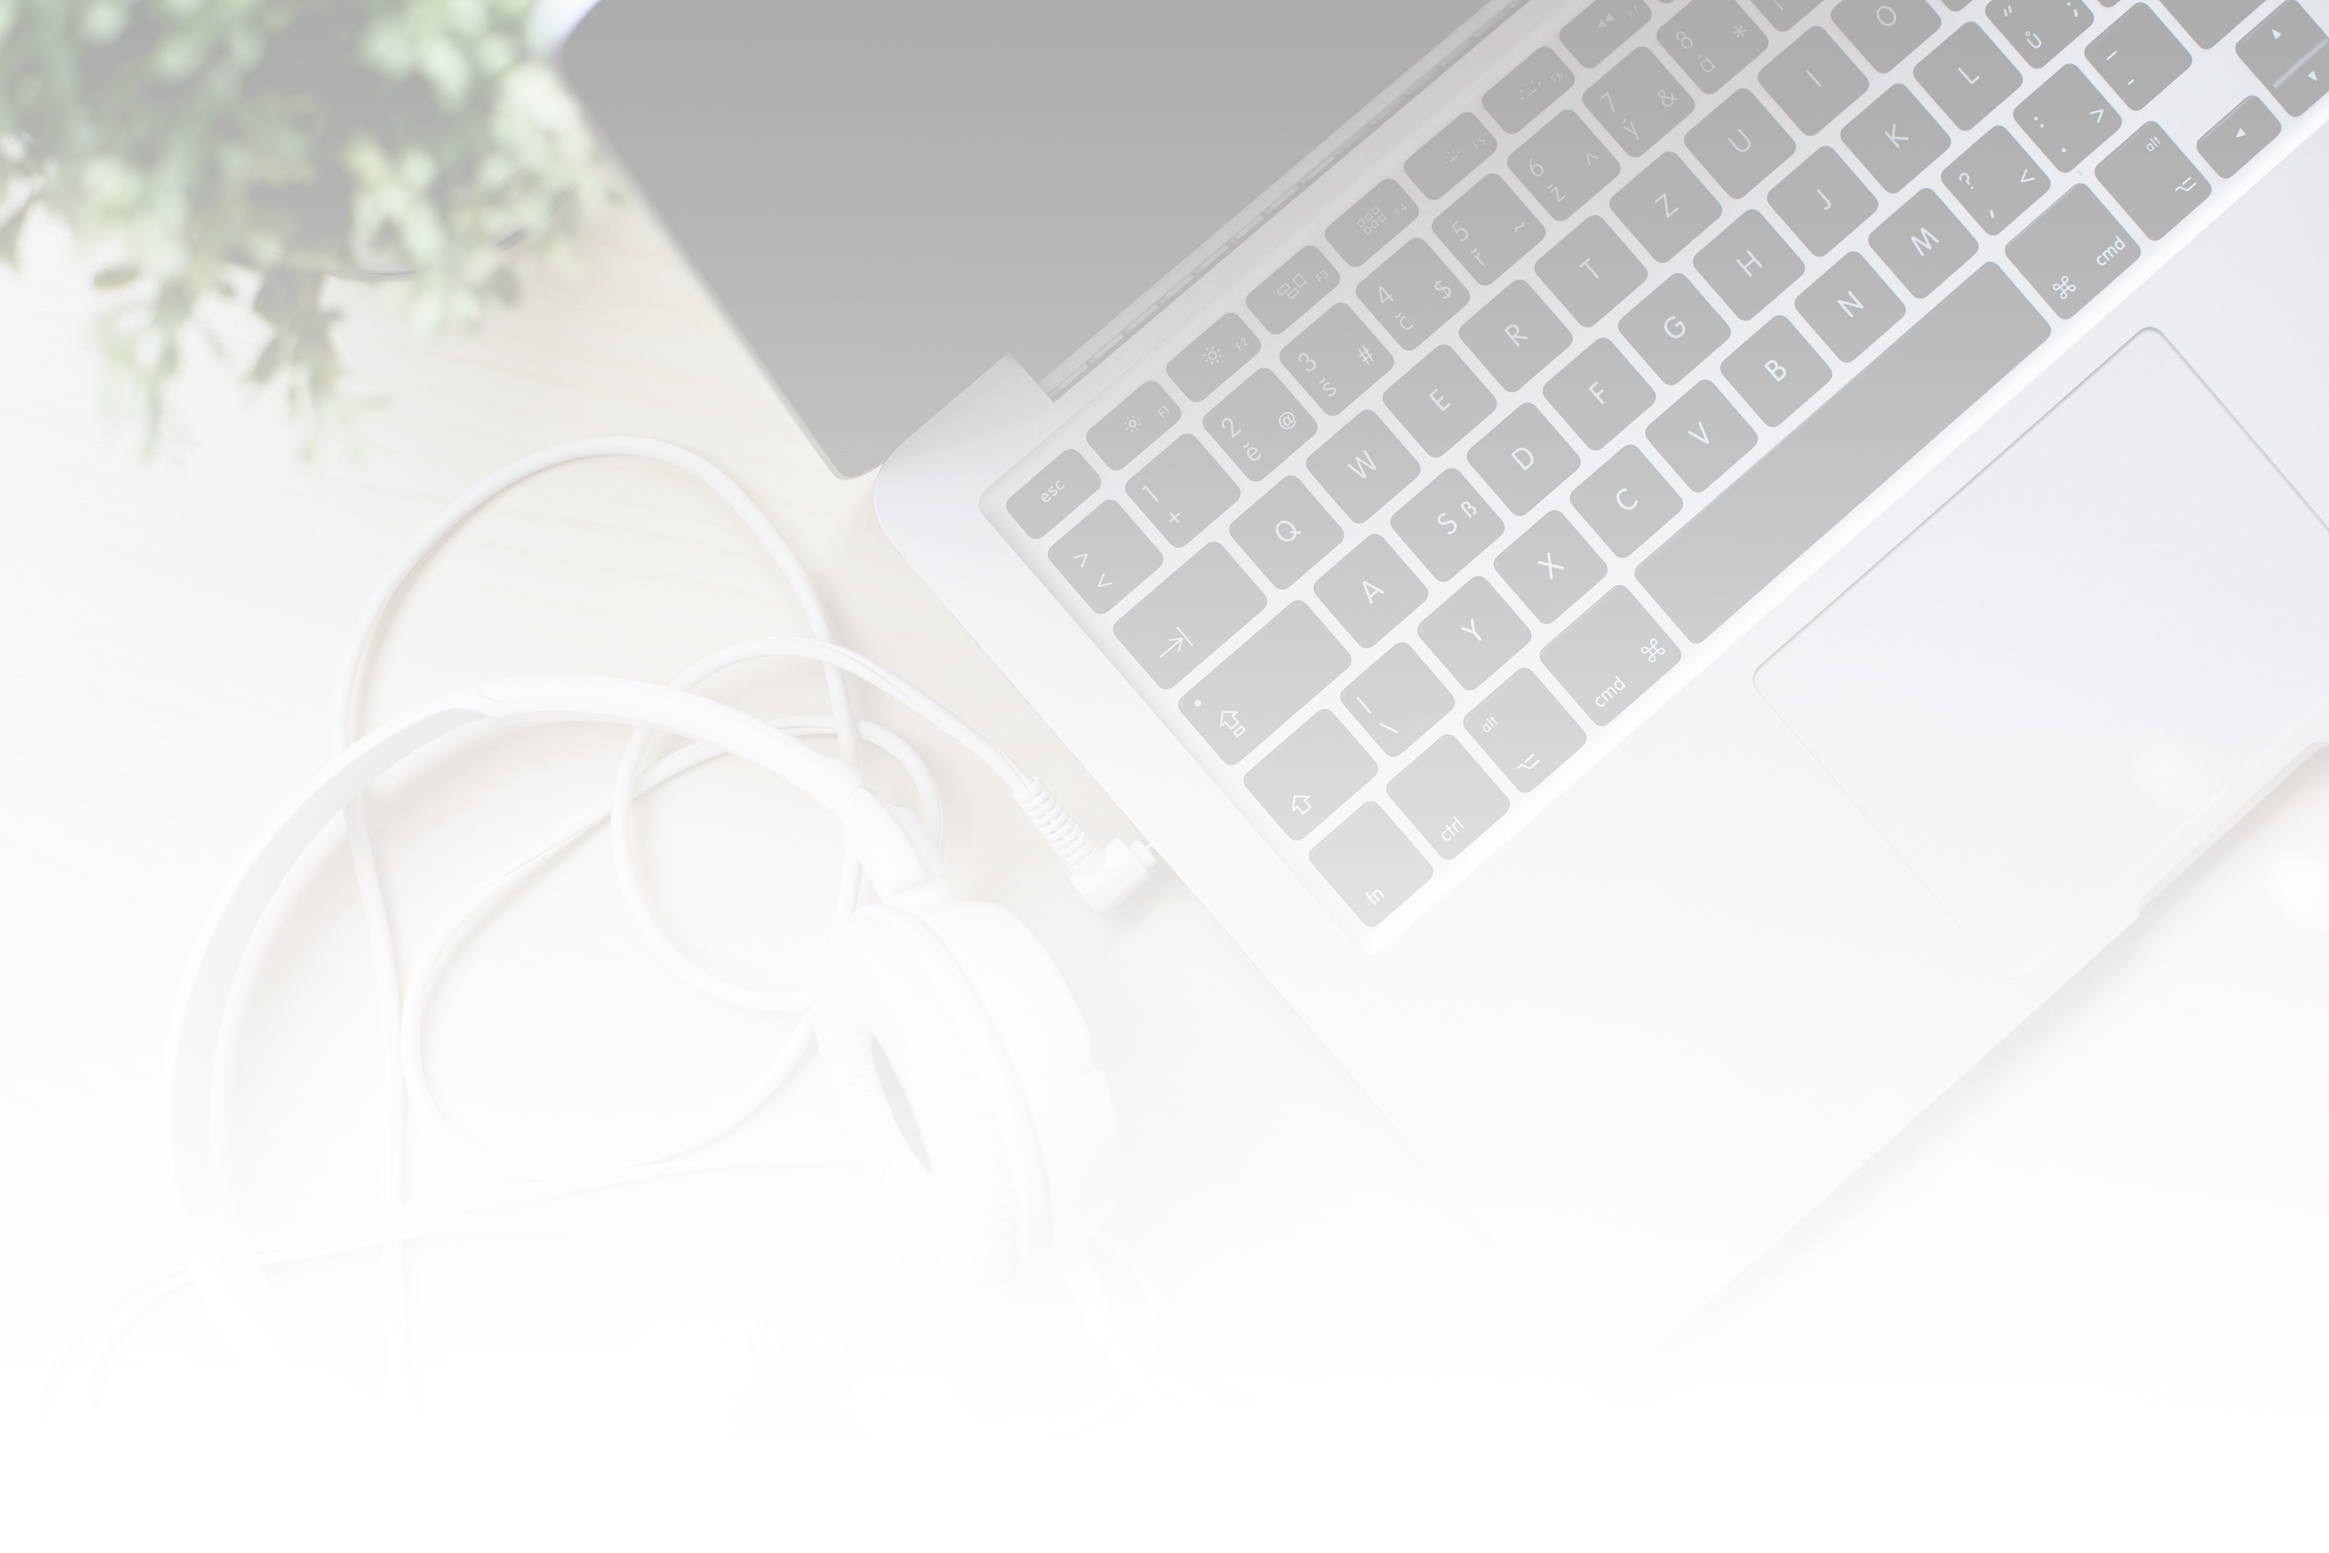
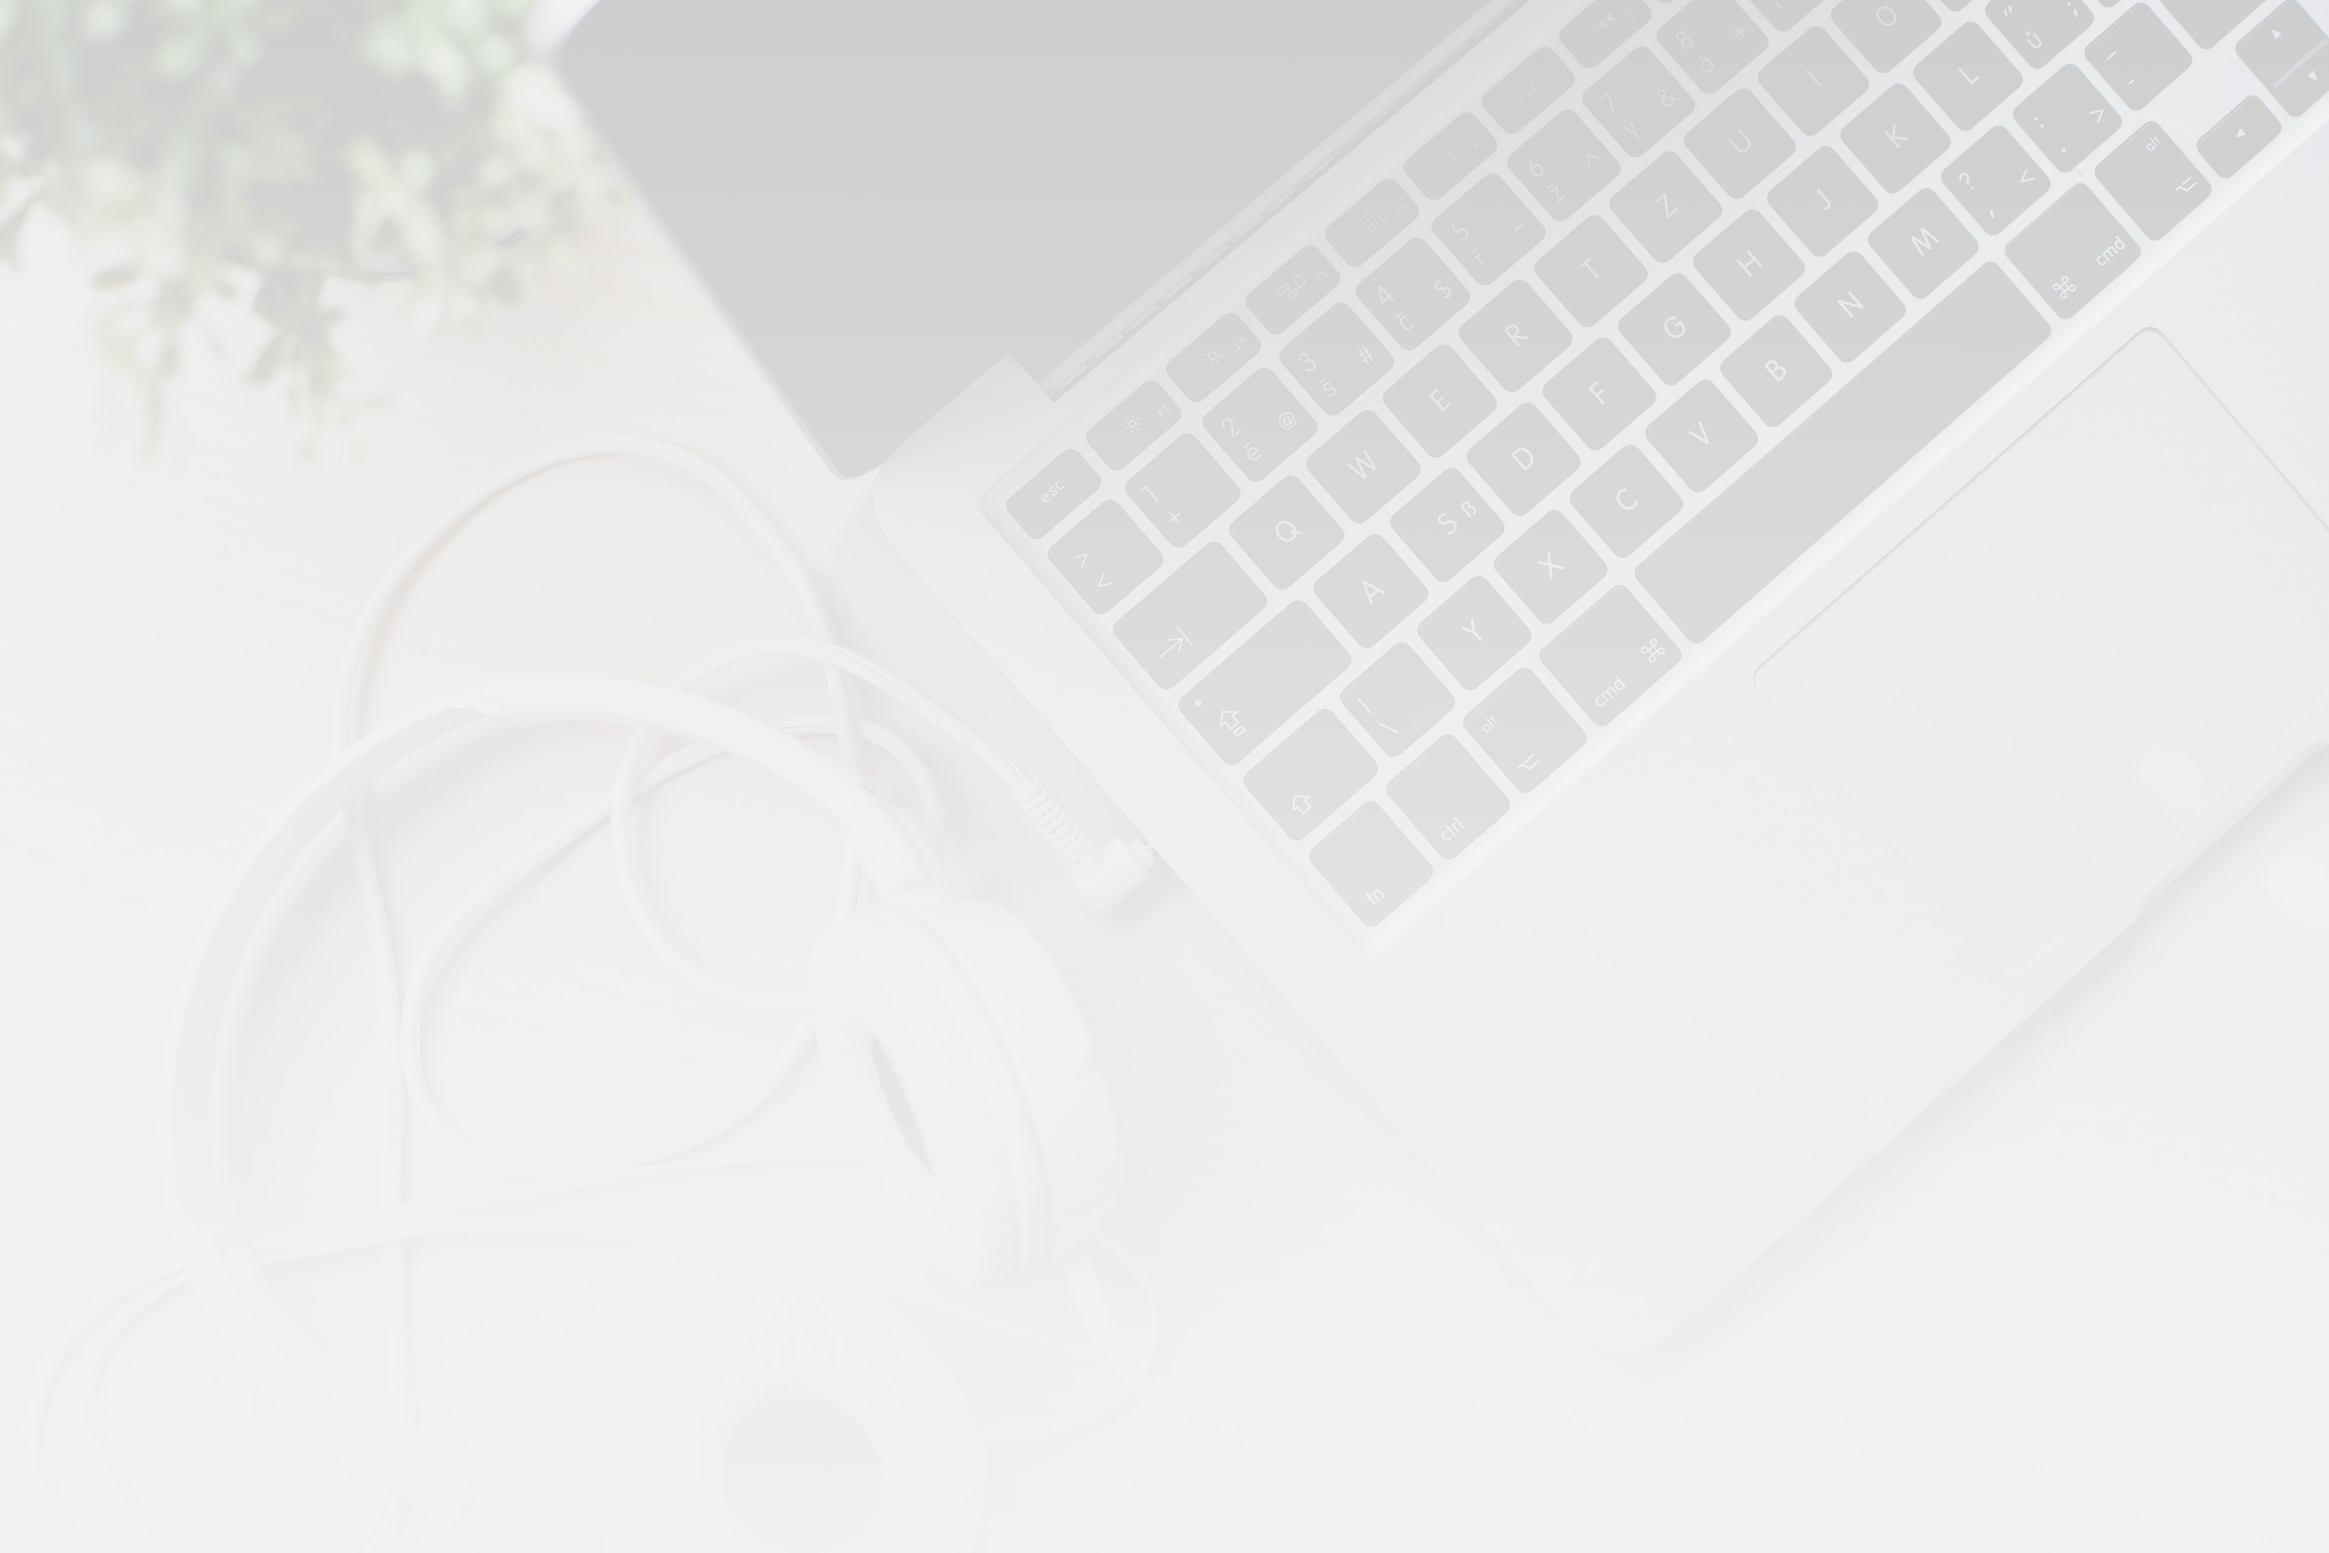
主页大小兼容

Changed region(s): [[0.0, 0.0, 1.0, 0.249]]

diff --git a/src/views/Home.vue b/src/views/Home.vue
@@ -4,14 +4,14 @@
     <!-- 首页标题 -->
     <div class="home-title clearfix">
       <h1 class="home-main-title">技术精英都在用的在线简历</h1>
-      <h5 class="home-subtitle">百万人才使用的在线简历网站，帮你快速制作一份优秀的在线简历，出门在外再也不用担心简历不够了</h5>
-      <el-button style="font-size: 20px; margin-top: 5%;" type="danger">快速生成在线简历</el-button>
+      <h5 class="home-subtitle">百万人才使用的在线简历网站，帮你快速制作一份优秀的在线简历，再也不用担心简历 OUT 了</h5>
+      <el-button style="font-size: 20px; margin-top: 5%;" type="danger" @click="newResume()">快速生成在线简历</el-button>
     </div>
     <!-- 展示 -->
     <div class="home-show">
-      <el-carousel :interval="4000" height="600px" type="card">
+      <el-carousel :interval="4000" :height="carouselHeight+'px'" type="card">
         <el-carousel-item :key="item" v-for="item in demoPictures.length - 1">
-          <el-image :fit="'fill'" :src="demoPictures[item]" style="width: 100%; height: 100%"></el-image>
+          <img :src="demoPictures[item]" class="home-image" ref="homeShow"></img>
         </el-carousel-item>
       </el-carousel>
     </div>
@@ -49,26 +49,46 @@
 </template>
 
 <script>
+import config from '../config.js'
+
 export default {
   data() {
     return {
+      carouselHeight: 600,
       demoPictures: [
-        'https://fuss10.elemecdn.com/e/5d/4a731a90594a4af544c0c25941171jpeg.jpeg',
-        'https://fuss10.elemecdn.com/e/5d/4a731a90594a4af544c0c25941171jpeg.jpeg',
-        'https://fuss10.elemecdn.com/e/5d/4a731a90594a4af544c0c25941171jpeg.jpeg',
-        'https://fuss10.elemecdn.com/e/5d/4a731a90594a4af544c0c25941171jpeg.jpeg',
-        'https://fuss10.elemecdn.com/e/5d/4a731a90594a4af544c0c25941171jpeg.jpeg',
-        'https://fuss10.elemecdn.com/e/5d/4a731a90594a4af544c0c25941171jpeg.jpeg',
-        'https://fuss10.elemecdn.com/e/5d/4a731a90594a4af544c0c25941171jpeg.jpeg'
+        `${config.PUBLIC_IMAGES}/myresume.png`,
+        `${config.PUBLIC_IMAGES}/myresume.png`,
+        `${config.PUBLIC_IMAGES}/myresume.png`,
+        `${config.PUBLIC_IMAGES}/myresume.png`,
+        `${config.PUBLIC_IMAGES}/myresume.png`,
+        `${config.PUBLIC_IMAGES}/myresume.png`,
+        `${config.PUBLIC_IMAGES}/myresume.png`
       ]
     }
-  }
+  },
+  mounted() {
+    this.load()
+    window.addEventListener('resize', () => {
+      this.load()
+    })
+  },
+  methods: {
+    newResume() {
+      this.$message('假装进去了……网站开发中……')
+    },
+    load() {
+      this.$nextTick(() => {
+        this.carouselHeight = this.$refs.homeShow[0].width * 1.4
+        // console.log(this.$refs.homeShow[0].width)
+      })
+    }
+  },
 }
 </script>
 
 <style lang="stylus">
 #home
-  background-image url('../../public/background1.jpg')
+  background-image url('../../public/background.jpg')
   background-repeat no-repeat
   background-size 100%
 
@@ -99,20 +119,25 @@ export default {
 
   .home-show
     margin 30px auto
-    width 1000px
+    width 70%
+    min-width 400px
+    
+    .home-image 
+      width 100%
+      height 100%
 
-    .el-carousel__item h3
-      color #475669
-      font-size 14px
-      opacity 0.75
-      line-height 200px
-      margin 0
+    // .el-carousel__item h3
+    //   color #475669
+    //   font-size 14px
+    //   opacity 0.75
+    //   line-height 200px
+    //   margin 0
 
-    .el-carousel__item:nth-child(2n)
-      background-color #99a9bf
+    // .el-carousel__item:nth-child(2n)
+    //   background-color #99a9bf
 
-    .el-carousel__item:nth-child(2n + 1)
-      background-color #d3dce6
+    // .el-carousel__item:nth-child(2n + 1)
+    //   background-color #d3dce6
 
   .home-table
     margin 30px auto
@@ -123,4 +148,5 @@ export default {
     td
       width 100px
       color darkgray
+
 </style>

diff --git a/src/App.vue b/src/App.vue
@@ -10,7 +10,7 @@
       </el-col>
       <!-- 中间的东西 -->
       <el-col :lg="14" :md="14" :sm="8" :xl="4" :xs="0">
-        <div class="grid-content hidden-sm-and-down">一堆我的简历一堆我的简历一堆我的简历一堆我的简历一堆我的简历一堆我的简历一堆我的简历</div>
+        <div class="grid-content hidden-sm-and-down">一份好的简历，成就你的梦想</div>
       </el-col>
       <!-- 右侧账户 -->
       <el-col :lg="5" :md="5" :sm="8" :xl="10" :xs="14">

diff --git a/src/config.js b/src/config.js
@@ -2,11 +2,13 @@
  * 封装网关域名及所有接口的方法名
  */
 
-const BASE_URL = "http://127.0.0.1:3001";
+const BASE_URL = "http://120.79.254.54:3001";
 
 export default {
   // 用户注册
   EXECUTE_USER_REGISTER: `${BASE_URL}/users/register`,
   // 用户登录
-  EXECUTE_USER_LOGIN: `${BASE_URL}/users/login`
+  EXECUTE_USER_LOGIN: `${BASE_URL}/users/login`,
+  // 图片
+  PUBLIC_IMAGES: `${BASE_URL}/public/images`
 };

diff --git a/src/router.js b/src/router.js
@@ -9,7 +9,7 @@ import NewResume from "./views/NewResume.vue";
 Vue.use(Router);
 
 export default new Router({
-  // mode: "history",
+  mode: "history",
   base: process.env.BASE_URL,
   routes: [
     {
